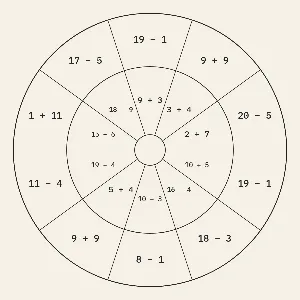
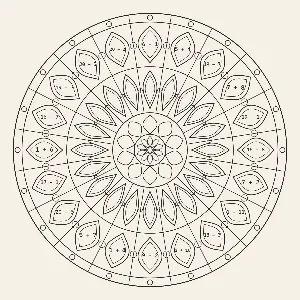
Kids-Corner: Zahlen ins Ornament statt Ornament um die Zahlen
Die Zähl- und Rechenmandalas sahen aus wie Arbeitsblätter mit rundem
Rand, und daran war nicht die Aufteilung schuld, sondern die Rangfolge:
Das Zeichen war die Hauptsache und das Feld nur sein Kasten. Bei einem
guten Malen-nach-Zahlen ist die Zahl das Unauffälligste am Bild.

Also andersherum. Jedes Feld trägt jetzt ein Blatt, gezeichnet durch
pen.repeat() wie in jedem anderen Motiv — in allen Feldern gleich, denn
die Symmetrie eines Mandalas darf nicht davon abhängen, welche Zahl
gerade wo steht. Verschieden ist nur noch, was verschieden sein muss:
die Zahl und, über verteile(), die Farbe.

Dazu drei Dinge, die daraus folgen:

- Ein Band darf seine eigene Feldzahl haben ([r0, r1, 2]). Ein Mandala
  wird nach außen feiner, nicht gröber; acht Felder sind innen richtig
  und außen viel zu wenige.
- Nicht jeder Ring trägt eine Aufgabe (zier). Ein Aufgabenring und ein
  Zierring: das hält die Zahl der Aufgaben bei zwanzig statt vierzig
  und lässt dem Kind Flächen, die es einfach so bemalen darf.
- Beschriftet wird die Fläche im Blatt, nicht das Tortenstück. feldRaum
  nähert sie als Ellipse und passtEin() prüft die Bedingung wirklich —
  vorher genügte w <= 2A und h <= 2B, was Rechtecke erlaubt, deren Ecken
  weit außerhalb liegen. Auf drei Uhr stand die Aufgabe quer über beide
  Blattspitzen hinaus.

Erprobt und wieder verworfen: Würfelbilder, Zehnerfeld und ein Blatt,
das Zahlen und Punkte mischt. Würfel und Zehnerfeld brauchen beide einen
[…]

diff --git a/v/2.21/index.html b/v/2.21/index.html
@@ -1,0 +1,273 @@
+<!DOCTYPE html>
+<html lang="de">
+<head>
+<meta charset="utf-8">
+<title>Mandala Atelier</title>
+<meta name="viewport" content="width=device-width, initial-scale=1, viewport-fit=cover, user-scalable=no">
+<meta name="description" content="Mandalas gestalten und kolorieren – ein Symmetrie-Werkzeug für ruhige Stunden. Offline, ohne Konto, ohne Werbung.">
+<meta name="theme-color" content="#f6f1e7">
+<meta name="apple-mobile-web-app-capable" content="yes">
+<meta name="apple-mobile-web-app-status-bar-style" content="default">
+<meta name="apple-mobile-web-app-title" content="Mandala">
+<link rel="apple-touch-icon" href="../../icon-180.png">
+<link rel="icon" href="../../icon-192.png">
+<link rel="stylesheet" href="../../fonts.css">
+<link rel="stylesheet" href="style.css">
+</head>
+<body>
+<div style="position:fixed;left:0;right:0;top:0;z-index:9999;padding:3px 10px;font:11px/1.4 system-ui,sans-serif;text-align:center;color:#5b5245;background:rgba(226,214,190,.94);padding-top:calc(3px + env(safe-area-inset-top))">Mandala Atelier 2.21 &middot; Fassung aus dem Regal, nur zum Vergleichen &middot; <a href="../../beide.html" style="color:inherit">zurück</a></div>
+
+
+<!-- ---------------------------------------------------------------
+     Kopfzeile. Im Vollbild verschwindet sie, dafür erscheint die
+     schmale Leiste weiter unten.
+     --------------------------------------------------------------- -->
+<header class="topbar">
+  <div class="brand">
+    <h1>Mandala Atelier <span class="fassung" id="fassung"></span></h1>
+    <p class="claim">Zeichne ein Segment – der Rest entsteht von selbst.</p>
+  </div>
+  <div class="topbar-actions">
+    <button type="button" class="chip" data-drawer="library" aria-expanded="false" aria-controls="library">Motive</button>
+    <button type="button" class="chip" data-drawer="controls" aria-expanded="false" aria-controls="controls">Werkzeuge</button>
+    <button type="button" class="chip" id="btn-gallery">Galerie</button>
+    <button type="button" class="chip" id="btn-fullscreen">Vollbild</button>
+    <button type="button" class="chip" id="btn-theme" title="Hell / Dunkel umschalten">Dunkel</button>
+  </div>
+</header>
+
+<!-- Ersatz für die Kopfzeile im Vollbild: so wenig wie möglich. -->
+<div class="floatbar" id="floatbar" hidden>
+  <span class="fassung" id="fassung-voll"></span>
+  <button type="button" class="chip" data-drawer="library">Motive</button>
+  <button type="button" class="chip" data-drawer="controls">Werkzeuge</button>
+  <button type="button" class="chip" id="btn-fullscreen-exit">Vollbild beenden</button>
+</div>
+
+<main class="atelier">
+
+  <!-- ---------------------------------------------------------------
+       Aufgabenstellung. Erscheint nur bei den Zähl- und Rechenmandalas
+       und steht über dem Blatt, nicht in einer Schublade – wer die
+       Aufgabe sucht, soll sie sehen.
+       --------------------------------------------------------------- -->
+  <p class="task" id="task" hidden></p>
+
+  <!-- ---------------------------------------------------------------
+       Zeichenfläche: fünf übereinanderliegende Ebenen.
+       Sie bekommt allen Platz, den das Fenster hergibt.
+       --------------------------------------------------------------- -->
+  <section class="stage" aria-label="Zeichenfläche">
+    <div class="canvas-stack" id="stack">
+      <canvas id="guideCanvas" aria-hidden="true"></canvas>
+      <canvas id="fillCanvas" aria-hidden="true"></canvas>
+      <canvas id="motifCanvas" aria-hidden="true"></canvas>
+      <canvas id="drawCanvas" role="img" aria-label="Mandala – hier zeichnen und füllen"></canvas>
+      <canvas id="labelCanvas" aria-hidden="true"></canvas>
+    </div>
+  </section>
+
+  <!-- ---------------------------------------------------------------
+       Schnellzugriff: was beim Malen ständig gebraucht wird.
+       Bleibt sichtbar, auch im Vollbild.
+       --------------------------------------------------------------- -->
+  <div class="quickbar" id="quickbar">
+    <div class="quick-tools" role="group" aria-label="Werkzeug">
+      <button type="button" class="tool is-active" data-tool="pen" title="Stift (1)">
+        <svg class="glyph" viewBox="0 0 24 24" aria-hidden="true" fill="none" stroke="currentColor" stroke-width="1.7" stroke-linecap="round" stroke-linejoin="round"><path d="M4 20l1-4.2L15.6 5.2a2 2 0 0 1 2.8 0l.4.4a2 2 0 0 1 0 2.8L8.2 19 4 20z"/><path d="M14.2 6.6l3.2 3.2"/></svg><span class="tool-name">Stift</span>
+      </button>
+      <button type="button" class="tool" data-tool="fill" title="Füllen (2)">
+        <svg class="glyph" viewBox="0 0 24 24" aria-hidden="true" fill="none" stroke="currentColor" stroke-width="1.7" stroke-linecap="round" stroke-linejoin="round"><path d="M11 3.5l7.6 7.6a1.4 1.4 0 0 1 0 2L13 18.7a1.4 1.4 0 0 1-2 0l-5.6-5.6a1.4 1.4 0 0 1 0-2L11 5.5z"/><path d="M9 5.5L7.2 3.7"/><path d="M19.6 15.4c.9 1.3 1.4 2.2 1.4 2.9a1.4 1.4 0 0 1-2.8 0c0-.7.5-1.6 1.4-2.9z" fill="currentColor" stroke="none"/></svg><span class="tool-name">Füllen</span>
+      </button>
+      <button type="button" class="tool" data-tool="shape" title="Form (3)">
+        <svg class="glyph" viewBox="0 0 24 24" aria-hidden="true" fill="none" stroke="currentColor" stroke-width="1.7" stroke-linecap="round" stroke-linejoin="round"><circle cx="9.5" cy="9.5" r="5.5"/><rect x="10" y="10" width="9.5" height="9.5" rx="1.2"/></svg><span class="tool-name">Form</span>
+      </button>
+      <button type="button" class="tool" data-tool="eraser" title="Radierer (4)">
+        <svg class="glyph" viewBox="0 0 24 24" aria-hidden="true" fill="none" stroke="currentColor" stroke-width="1.7" stroke-linecap="round" stroke-linejoin="round"><path d="M8.5 19.5H20"/><path d="M14.4 4.6l5 5a1.6 1.6 0 0 1 0 2.3l-7.1 7.1a1.6 1.6 0 0 1-2.3 0l-5-5a1.6 1.6 0 0 1 0-2.3l7.1-7.1a1.6 1.6 0 0 1 2.3 0z"/><path d="M9.3 9.7l5 5"/></svg><span class="tool-name">Radierer</span>
+      </button>
+    </div>
+
+    <div class="quick-shapes" id="quick-shapes" role="group" aria-label="Grundform" hidden>
+      <button type="button" class="shape is-active" data-shape="ring">Ring</button>
+      <button type="button" class="shape" data-shape="spoke">Speiche</button>
+      <button type="button" class="shape" data-shape="petal">Blatt</button>
+      <button type="button" class="shape" data-shape="diamond">Raute</button>
+      <button type="button" class="shape" data-shape="band">Band</button>
+    </div>
+
+    <div class="quick-colors" id="quick-palette" role="group" aria-label="Pigment"></div>
+
+    <div class="quick-zoom" role="group" aria-label="Zeichenfläche vergrößern">
+      <button type="button" class="icon-button" id="btn-zoom-out" title="Verkleinern (−)" aria-label="Verkleinern">−</button>
+      <button type="button" class="zoom-level" id="zoom-level" title="Auf Anfang zurück (0)" aria-label="Vergrößerung zurücksetzen">100 %</button>
+      <button type="button" class="icon-button" id="btn-zoom-in" title="Vergrößern (+)" aria-label="Vergrößern">+</button>
+    </div>
+
+    <div class="quick-actions" role="group" aria-label="Schritte">
+      <button type="button" class="icon-button" id="btn-undo" title="Rückgängig (Cmd/Strg+Z)" aria-label="Rückgängig">↺</button>
+      <button type="button" class="icon-button" id="btn-redo" title="Wiederherstellen (Cmd/Strg+Umschalt+Z)" aria-label="Wiederherstellen">↻</button>
+      <button type="button" class="icon-button" id="btn-quick-collapse" title="Leiste einklappen" aria-label="Leiste einklappen">▾</button>
+    </div>
+  </div>
+
+  <!-- ---------------------------------------------------------------
+       Schublade links: Motivwelten
+       --------------------------------------------------------------- -->
+  <aside id="library" class="drawer drawer-left" aria-label="Motivwelten" aria-hidden="true">
+    <div class="drawer-head">
+      <h2>Motive</h2>
+      <button type="button" class="drawer-close" data-close="library" aria-label="Motive schließen">✕</button>
+    </div>
+    <div class="drawer-body">
+      <button type="button" class="motif blank" data-motif="">
+        <span class="motif-name">Leeres Blatt</span>
+        <span class="motif-note">Nur Symmetrie, keine Vorlage</span>
+      </button>
+      <div id="worlds"></div>
+      <p class="drawer-foot">
+        19 Vorlagen in 5 Welten. Ein Motiv setzt die Achsenzahl passend –
+        du kannst sie danach jederzeit ändern.
+      </p>
+    </div>
+  </aside>
+
+  <!-- ---------------------------------------------------------------
+       Schublade rechts: Werkzeuge
+       --------------------------------------------------------------- -->
+  <aside id="controls" class="drawer drawer-right" aria-label="Werkzeuge" aria-hidden="true">
+    <div class="drawer-head">
+      <h2>Werkzeuge</h2>
+      <button type="button" class="drawer-close" data-close="controls" aria-label="Werkzeuge schließen">✕</button>
+    </div>
+    <div class="drawer-body">
+
+      <section class="panel">
+        <h3>Werkzeug</h3>
+        <div class="tools" role="group" aria-label="Werkzeug wählen">
+          <button type="button" class="tool is-active" data-tool="pen">Stift</button>
+          <button type="button" class="tool" data-tool="fill">Füllen</button>
+          <button type="button" class="tool" data-tool="shape">Form</button>
+          <button type="button" class="tool" data-tool="eraser">Radierer</button>
+        </div>
+        <p class="switch-note">
+          Mit „Form“ entstehen die Grundformen exakt: Ring, Speiche, Blatt,
+          Raute und Band – dieselben Bausteine, aus denen auch die Vorlagen
+          gemacht sind. Ziehen setzt die Länge, seitlich ziehen die Breite.
+        </p>
+        <label class="field">
+          <span>Strichstärke</span>
+          <input type="range" id="width" min="1" max="14" step="1" value="4">
+        </label>
+      </section>
+
+      <section class="panel">
+        <h3>Farbwelt</h3>
+        <div class="palette-sets" id="palette-sets" role="group" aria-label="Farbwelt wählen"></div>
+        <div class="palette" id="palette" role="group" aria-label="Pigment wählen"></div>
+        <label class="field mixer" id="mixer" hidden>
+          <span>Gewähltes Pigment mischen</span>
+          <input type="color" id="mix-color">
+        </label>
+      </section>
+
+      <section class="panel" id="legend-panel" hidden>
+        <h3 id="legend-title">Farblegende</h3>
+        <ul class="legend" id="legend"></ul>
+      </section>
+
+      <section class="panel">
+        <h3>Symmetrie</h3>
+        <div class="axes" id="axes" role="group" aria-label="Achsenzahl"></div>
+        <label class="switch">
+          <input type="checkbox" id="mirror">
+          <span>Spiegelung</span>
+        </label>
+        <label class="switch">
+          <input type="checkbox" id="guides" checked>
+          <span>Hilfsraster</span>
+        </label>
+        <label class="switch">
+          <input type="checkbox" id="fill-all" checked>
+          <span>Füllen wirkt auf alle Achsen</span>
+        </label>
+        <p class="switch-note" id="fill-all-note"></p>
+        <label class="switch" id="graded-switch" hidden>
+          <input type="checkbox" id="graded" checked>
+          <span>Symmetrie folgt den Bereichen</span>
+        </label>
+        <p class="switch-note" id="graded-note" hidden></p>
+      </section>
+
+      <section class="panel">
+        <h3>Blatt</h3>
+        <button type="button" id="btn-clear" class="action">Zurücksetzen</button>
+        <button type="button" id="btn-keep" class="action primary">In die Galerie legen</button>
+        <button type="button" id="btn-save" class="action">Als Bild speichern</button>
+        <button type="button" id="btn-print" class="action">Druckbogen (A4)</button>
+      </section>
+
+      <p class="drawer-foot" id="stage-hint">Wähle ein Motiv oder beginne auf dem leeren Blatt.</p>
+
+    </div>
+  </aside>
+</main>
+
+<!-- ---------------------------------------------------------------
+     Galerie: fertige Bilder, mittelgroße Kacheln
+     --------------------------------------------------------------- -->
+<section id="gallery" class="overlay" aria-label="Galerie" hidden>
+  <header class="overlay-head">
+    <div class="overlay-ident">
+      <h2 id="gallery-title">Galerie</h2>
+      <p class="overlay-note" id="gallery-count"></p>
+    </div>
+    <div class="owner">
+      <label>
+        <span>Galerie von</span>
+        <select id="person-select" aria-label="Person wählen"></select>
+      </label>
+      <input type="text" id="gallery-owner" maxlength="28" placeholder="Name" aria-label="Person umbenennen">
+    </div>
+    <button type="button" class="drawer-close" id="btn-gallery-close" aria-label="Galerie schließen">✕</button>
+  </header>
+  <div class="overlay-body">
+    <p class="empty" id="gallery-empty" hidden>
+      Noch nichts abgelegt. Leg ein fertiges Bild über
+      „In die Galerie legen“ hierher.
+    </p>
+    <div class="works" id="works"></div>
+    <footer class="overlay-foot">
+      <p>
+        Werke liegen nur auf diesem Gerät. Eine Sicherung ist zugleich der Weg
+        auf ein zweites Gerät – sie enthält alle Personen, deren Werke und die
+        eigene Farbwelt.
+      </p>
+      <div class="overlay-actions">
+        <button type="button" class="action" id="btn-backup-save">Sicherung speichern</button>
+        <button type="button" class="action" id="btn-backup-load">Sicherung einlesen</button>
+        <input type="file" id="backup-file" accept="application/json,.json" hidden>
+      </div>
+    </footer>
+  </div>
+</section>
+
+<!-- Vergrößerte Ansicht eines Werks -->
+<div id="viewer" class="viewer" hidden>
+  <div class="viewer-card" role="dialog" aria-modal="true" aria-label="Werk ansehen">
+    <img id="viewer-image" alt="">
+    <div class="viewer-side">
+      <label class="field">
+        <span>Titel</span>
+        <input type="text" id="viewer-title" maxlength="60">
+      </label>
+      <p class="viewer-meta" id="viewer-meta"></p>
+      <button type="button" class="action" id="viewer-download">Als Bild speichern</button>
+      <button type="button" class="action" id="viewer-delete">Aus der Galerie nehmen</button>
+      <button type="button" class="action primary" id="viewer-close">Schließen</button>
+    </div>
+  </div>
+</div>
+
+<script src="app.js"></script>
+</body>
+</html>

diff --git a/docs/katalog.html b/docs/katalog.html
@@ -134,8 +134,8 @@ a { color:inherit; }
 <article class="karte"><img src="katalog/ersteformen.webp" alt="Erste Formen" width="300" height="300" loading="lazy" decoding="async"><h3>Erste Formen</h3><p class="note">Kindergarten – sehr große Felder</p><dl><dt>Achsen</dt><dd>6</dd></dl></article>
 <article class="karte"><img src="katalog/mustertanz.webp" alt="Mustertanz" width="300" height="300" loading="lazy" decoding="async"><h3>Mustertanz</h3><p class="note">Grundschule – Bänder im Wechsel</p><dl><dt>Achsen</dt><dd>12</dd></dl></article>
 <article class="karte"><img src="katalog/formenreigen.webp" alt="Formenreigen" width="300" height="300" loading="lazy" decoding="async"><h3>Formenreigen</h3><p class="note">Kindergarten – runde und eckige Felder</p><dl><dt>Achsen</dt><dd>8</dd></dl></article>
-<article class="karte"><img src="katalog/zaehlen6.webp" alt="Zähl bis 6" width="300" height="300" loading="lazy" decoding="async"><h3>Zähl bis 6</h3><p class="note">Punkte zählen, nach Anzahl färben</p><dl><dt>Achsen</dt><dd>6</dd></dl></article>
-<article class="karte"><img src="katalog/zaehlen10.webp" alt="Zähl bis 10" width="300" height="300" loading="lazy" decoding="async"><h3>Zähl bis 10</h3><p class="note">Punkte zählen bis zehn</p><dl><dt>Achsen</dt><dd>10</dd></dl></article>
+<article class="karte"><img src="katalog/zaehlen6.webp" alt="Zähl bis 6" width="300" height="300" loading="lazy" decoding="async"><h3>Zähl bis 6</h3><p class="note">Punkte zählen, nach Anzahl färben</p><dl><dt>Achsen</dt><dd>8</dd></dl></article>
+<article class="karte"><img src="katalog/zaehlen10.webp" alt="Zähl bis 10" width="300" height="300" loading="lazy" decoding="async"><h3>Zähl bis 10</h3><p class="note">Punkte zählen bis zehn, in Fünferreihen</p><dl><dt>Achsen</dt><dd>10</dd></dl></article>
 <article class="karte"><img src="katalog/rechnen10.webp" alt="Rechenmandala ZR 10" width="300" height="300" loading="lazy" decoding="async"><h3>Rechenmandala ZR 10</h3><p class="note">Plus und Minus im Zahlenraum 10</p><dl><dt>Achsen</dt><dd>8</dd></dl></article>
 <article class="karte"><img src="katalog/rechnen20.webp" alt="Rechenmandala ZR 20" width="300" height="300" loading="lazy" decoding="async"><h3>Rechenmandala ZR 20</h3><p class="note">Plus und Minus im Zahlenraum 20</p><dl><dt>Achsen</dt><dd>10</dd></dl></article>
 </div>
@@ -150,7 +150,7 @@ a { color:inherit; }
 </div>
 
   <p class="hinweis">
-    <strong>Stand:</strong> Mandala Atelier 2.20, Blatt
+    <strong>Stand:</strong> Mandala Atelier 2.21, Blatt
     3.15. Frühere Fassungen stehen im
     <a href="fassungen.html">Regal</a> und lassen sich dort öffnen.
   </p>

diff --git a/v/2.21/app.js b/v/2.21/app.js
@@ -1,5 +1,12 @@
 'use strict';
 
+/* Im Regal ohne Service Worker – siehe tools/einfrieren.js.
+   Eine eingefrorene Fassung darf keinen anmelden: Ihr `activate` löschte
+   den Offline-Vorrat der laufenden App. */
+if (typeof navigator !== 'undefined' && navigator.serviceWorker) {
+  navigator.serviceWorker.register = function () { return new Promise(function () {}); };
+}
+
 /* ============================================================================
    Mandala Atelier – gesamte Logik
 
@@ -221,7 +228,7 @@ const WALL_ALPHA = 60;
    ------------------------------------------------------------------------- */
 
 const Store = {
-  prefix: 'mandala-atelier.',
+  prefix: 'mandala-atelier-regal2-21.',
   get(key, fallback) {
     try {
       const raw = localStorage.getItem(this.prefix + key);
@@ -2551,7 +2558,7 @@ const Gallery = {
       if (!window.indexedDB) return resolve();
       let request;
       try {
-        request = indexedDB.open('mandala-atelier', 1);
+        request = indexedDB.open('mandala-atelier-regal2-21', 1);
       } catch (err) {
         return resolve();
       }

diff --git a/sw.js b/sw.js
@@ -5,7 +5,7 @@
    weiter die alte Fassung, auch wenn die Dateien längst neu sind.
    ========================================================================== */
 
-const CACHE = 'mandala-atelier-v1-20';
+const CACHE = 'mandala-atelier-v1-21';
 
 const SHELL = [
   './',
